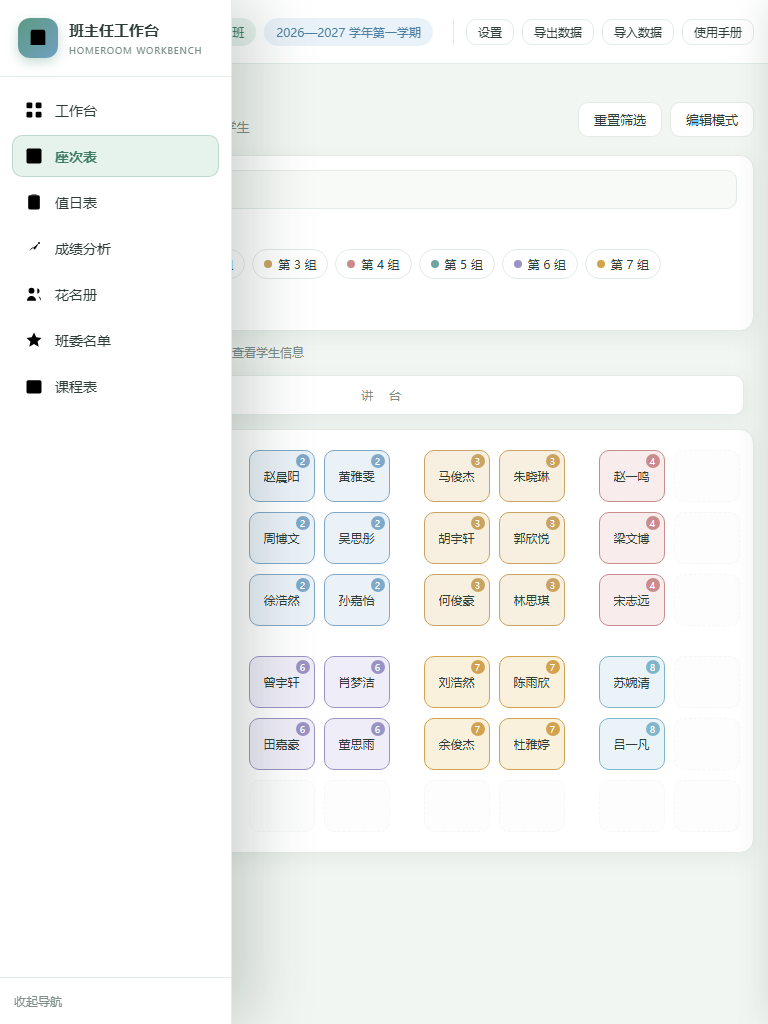
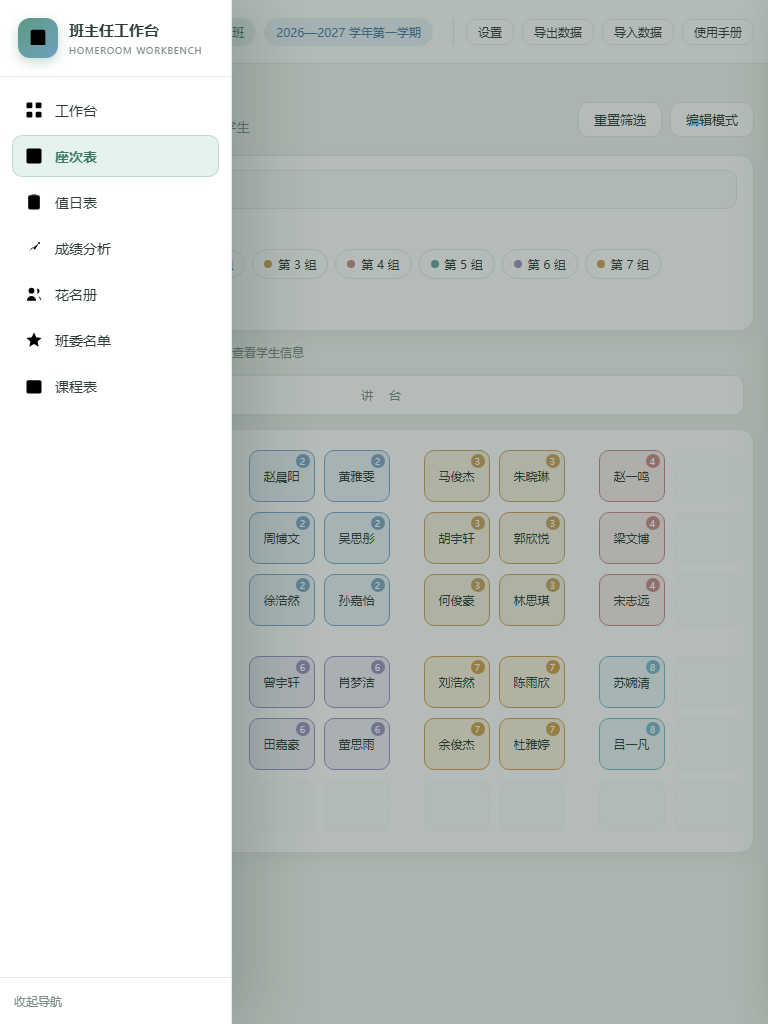
fix: 移动端适配（顶栏防溢出 / 侧栏菜单可开合）
- 手机窄屏（≤620px）顶栏信息区与操作按钮换行排列，消除 390px 视口下页面被撑宽到 568px 的横向溢出
- 菜单按钮改为开合切换；侧栏打开时显示遮罩，点击遮罩/Esc 均可关闭（修复初始化完成后菜单无法打开侧栏：finishInit 后未绑定事件）
- 侧栏层级提升到遮罩之上，避免被遮挡
- 回归测试 BASE 与资源路径更新到当前仓库（此前指向旧环境副本导致测试未覆盖最新代码）；新增移动端菜单开合断言（208 项全部通过）

diff --git a/js/app.js b/js/app.js
@@ -1579,6 +1579,7 @@ function openDrawer(key) {
 
 function closeDrawer() {
   byId('app').classList.remove('drawer-open');
+  byId('app').classList.remove('sidebar-open');
   document.body.classList.remove('drawer-lock');
 }
 
@@ -5248,6 +5249,29 @@ function hideInitScreen() {
   byId('app').classList.remove('app-init');
 }
 
+/* 顶栏/遮罩/快捷键：初始化向导完成后也需可用（首次打开时 init 提前返回，需在此补绑） */
+let shellEventsBound = false;
+function bindShellEvents() {
+  if (shellEventsBound) return;
+  shellEventsBound = true;
+  byId('collapseBtn').addEventListener('click', toggleSidebarCollapsed);
+  byId('menuBtn').addEventListener('click', () => {
+    byId('app').classList.toggle('sidebar-open');
+  });
+  byId('drawerBackdrop').addEventListener('click', closeDrawer);
+  document.addEventListener('keydown', e => {
+    if (e.key === 'Escape') {
+      if (qsa('.form-modal').length) { closeFormModal(); return; }
+      if (state.seatEditMode && state.seatMoveMode && state.seatMoveSource) {
+        state.seatMoveSource = null;
+        updateMoveUI();
+        return;
+      }
+      closeDrawer();
+    }
+  });
+}
+
 /* ---------- 初始化 ---------- */
 async function init() {
   refreshTopMeta();
@@ -5294,6 +5318,7 @@ async function init() {
 
   refreshTopMeta();
   bindDataTools();
+  bindShellEvents();
 
   if (state.needsInit) {
     showInitScreen();
@@ -5301,23 +5326,6 @@ async function init() {
   }
 
   await maybeAutoBackup();
-
-  byId('collapseBtn').addEventListener('click', toggleSidebarCollapsed);
-  byId('menuBtn').addEventListener('click', () => byId('app').classList.add('sidebar-open'));
-  byId('drawerBackdrop').addEventListener('click', closeDrawer);
-
-  document.addEventListener('keydown', e => {
-    if (e.key === 'Escape') {
-      if (qsa('.form-modal').length) { closeFormModal(); return; }
-      if (state.seatEditMode && state.seatMoveMode && state.seatMoveSource) {
-        state.seatMoveSource = null;
-        updateMoveUI();
-        return;
-      }
-      if (byId('app').classList.contains('drawer-open')) closeDrawer();
-      else byId('app').classList.remove('sidebar-open');
-    }
-  });
 
   try {
     if (localStorage.getItem('tw-collapsed') === '1') byId('app').classList.add('collapsed');

diff --git a/css/style.css b/css/style.css
@@ -2245,6 +2245,12 @@ body.drawer-lock { overflow: hidden; }
   .app.sidebar-open .sidebar {
     transform: none;
     box-shadow: 20px 0 60px rgba(35, 56, 48, .22);
+    z-index: 215;
+  }
+
+  .app.sidebar-open .drawer-backdrop {
+    opacity: 1;
+    pointer-events: auto;
   }
 
   .app.collapsed .sidebar { width: var(--sidebar-w); }
@@ -2276,6 +2282,35 @@ body.drawer-lock { overflow: hidden; }
 @media (max-width: 420px) {
   .seat { width: 58px; min-height: 48px; }
   .seat-name { font-size: 11px; }
+}
+
+/* 手机窄屏：顶栏信息与操作按钮换行，避免横向溢出 */
+@media (max-width: 620px) {
+  .topbar {
+    flex-wrap: wrap;
+    gap: 8px 10px;
+    min-height: auto;
+    padding: 8px 12px;
+  }
+
+  .topbar-meta {
+    margin-left: 0;
+    width: 100%;
+    flex-wrap: wrap;
+    gap: 6px 8px;
+  }
+
+  .topbar-actions {
+    margin-left: 0;
+    padding-left: 0;
+    border-left: none;
+    flex-wrap: wrap;
+  }
+
+  .content { padding: 14px 12px 28px; }
+
+  .page-head { flex-direction: column; align-items: stretch; }
+  .page-actions { flex-wrap: wrap; }
 }
 
 /* ---------- 初始化向导 / 班级设置 ---------- */
